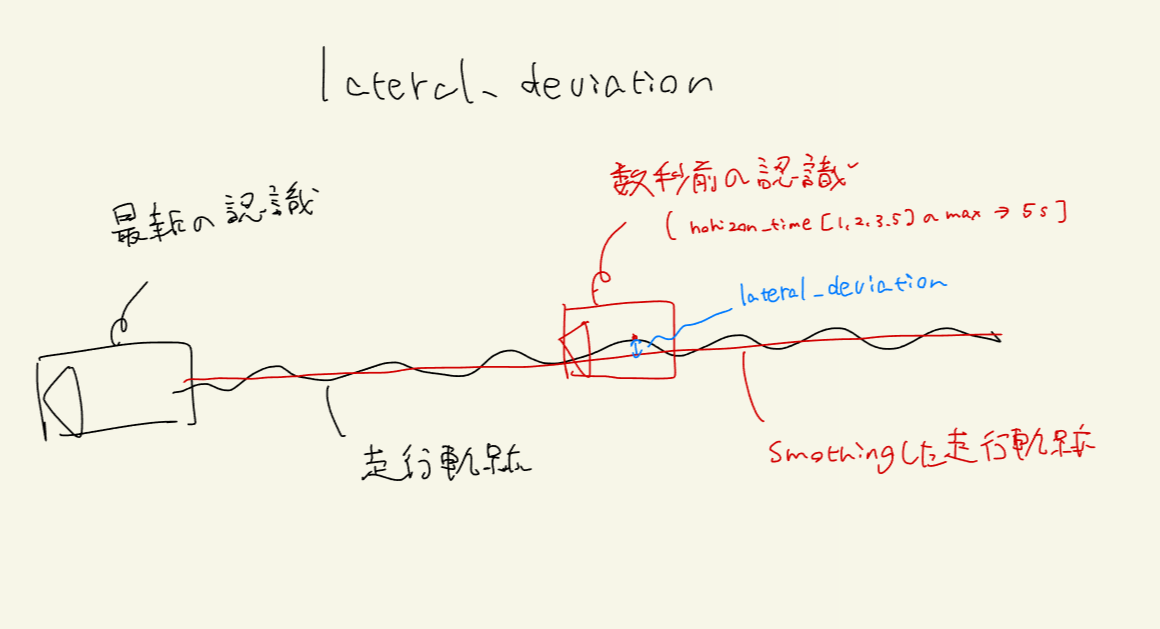
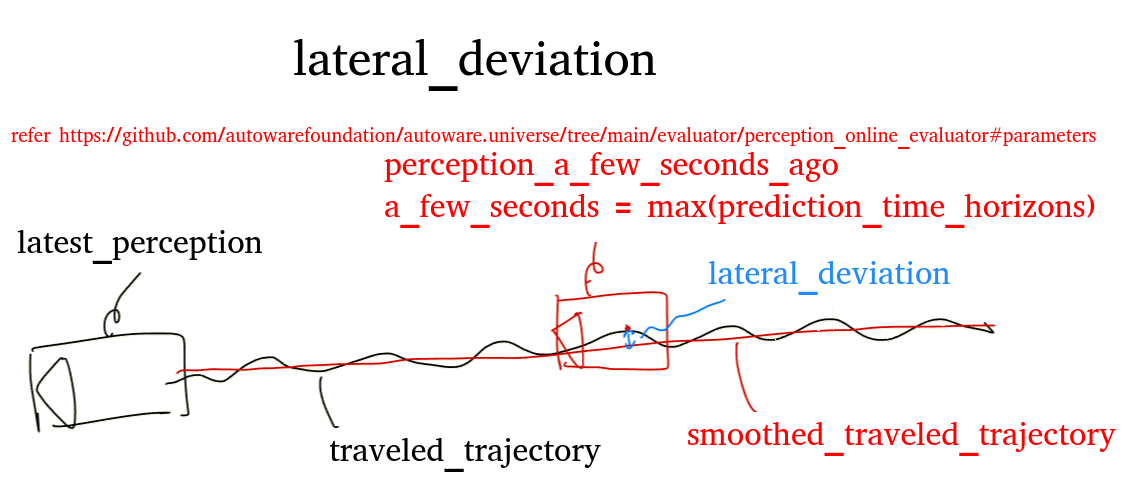
docs: add English document

diff --git a/docs/use_case/annotationless_perception.en.md b/docs/use_case/annotationless_perception.en.md
@@ -1,0 +1,274 @@
+# Evaluate Perception (Annotation Less)
+
+Evaluate Autoware's recognition features (perception) without annotations using the perception_online_evaluator.
+
+Requires Autoware with the following PR features.
+<https://github.com/autowarefoundation/autoware.universe/pull/6493>
+
+## Evaluation method
+
+The annotationless_perception evaluation is executed by launching the `annotationless_perception.launch.py` file.
+Launching the file executes the following steps:
+
+1. Execute launch of evaluation node (`annotationless_perception_evaluator_node`), `logging_simulator.launch` file and `ros2 bag play` command
+2. Autoware receives sensor data output from input rosbag and the perception module performs recognition.
+3. The perception_online_evaluator publishes diagnostic topic to `/diagnostic/perception_online_evaluator/metrics`
+4. The evaluation node subscribes to the topic and evaluates data. The result is dumped into a file.
+5. When the playback of the rosbag is finished, Autoware's launch is automatically terminated, and the evaluation is completed.
+
+## Evaluation results
+
+The results are calculated for each subscription. The format and available states are described below.
+
+### Deviation Normal
+
+The following two values specified in the scenario or launch argument are used to judge
+
+- Threshold
+  - Threshold for judging the success or failure of each item
+- PassRange(Coefficient to correct threshold)
+  - The range between `threshold * lower_limit` and `threshold * upper limit` is considered to pass the test.
+
+Add the min, max, and mean values for each status.name in `/diagnostic/perception_online_evaluator/metrics` and calculate the average value.
+If the `threshold * lower limit` <= `calculated_average` <= `threshold value * upper_limit`, it is assumed to be normal.
+
+An illustration is shown below.
+
+![metrics](./images/annotationless_metrics.drawio.svg)
+
+### Deviation Error
+
+When the deviation normal condition is not met
+
+## Topic name and data type used by evaluation node
+
+Subscribed topics:
+
+| Topic name                                      | Data type                             |
+| ----------------------------------------------- | ------------------------------------- |
+| /diagnostic/perception_online_evaluator/metrics | diagnostic_msgs::msg::DiagnosticArray |
+
+Published topics:
+
+| Topic name | Data type |
+| ---------- | --------- |
+| N/A        | N/A       |
+
+### Method of specifying conditions
+
+The conditions can be given in two ways
+
+#### Describe in scenario
+
+```yaml
+Evaluation:
+  UseCaseName: annotationless_perception
+  UseCaseFormatVersion: 0.1.0
+  Conditions:
+    # Threshold: {} # If Metrics are specified from result.jsonl of a previous test, the value here will be overwritten. If it is a dictionary type, it can be empty.
+    Threshold:
+      lateral_deviation: { min: 10.0, max: 10.0, mean: 10.0 }
+      yaw_deviation: { min: 10.0, max: 10.0, mean: 10.0 }
+      predicted_path_deviation_5.00: { min: 10.0, max: 10.0, mean: 10.0 }
+      predicted_path_deviation_3.00: { min: 10.0, max: 10.0, mean: 10.0 }
+      predicted_path_deviation_2.00: { min: 10.0, max: 10.0, mean: 10.0 }
+      predicted_path_deviation_1.00: { min: 10.0, max: 10.0, mean: 10.0 }
+    PassRange: 0.5-1.05 # lower[<=1.0]-upper[>=1.0] # The test will pass under the following `condition threshold * lower <= Σ deviation / len(deviation) <= threshold * upper`
+```
+
+#### Specify by launch argument
+
+This method is assumed to be used mainly.
+If the file path of result.jsonl output from a past test is specified, the metrics values from past tests can be used as threshold values.
+The passing range can also be specified as an argument.
+
+An image of its use is shown below.
+
+![threshold](./images/annotationless_threshold.drawio.svg)
+
+##### driving-log-replayer-cli
+
+```shell
+dlr simulation run -p annotationless_perception -l "annotationless_thresold_file:=${previous_test_result.jsonl_path},annotationless_pass_range:=${lower-upper}
+```
+
+##### WebAutoCLI
+
+```shell
+webauto ci scenario run --project-id ${project-id} --scenario-id ${scenario-id} --scenario-version-id ${scenario-version-id} --simulator-parameter-overrides annotationless_thresold_file=${previous_test_result.jsonl_path},annotaionless_pass_rate=${lower-upper}
+```
+
+##### Autoware Evaluator
+
+Add to parameters in the simulator configuration in `.webauto-ci.yml`.
+
+```yaml
+simulations:
+  - name: annotationless_perception
+    type: annotationless_perception
+    simulator:
+      deployment:
+        type: container
+        artifact: main
+      runtime:
+        type: simulator/standard1/amd64/medium
+      parameters:
+        annotationless_threshold_file: ${previous_test_result.jsonl_path}
+        annotationless_pass_range: ${upper-lower}
+```
+
+## Arguments passed to logging_simulator.launch
+
+To make Autoware processing less resource-consuming, modules that are not relevant to evaluation are disabled by passing the `false` parameter as a launch argument.
+The following parameters are set to `false`:
+
+- perception: true
+- planning: false
+- control: false
+- sensing: false / true (default false, set by launch argument)
+
+### How to specify the sensing argument
+
+#### driving-log-replayer-cli
+
+```shell
+dlr simulation run -p annotationless_perception -l "sensing:=true"
+```
+
+#### WebAutoCLI
+
+```shell
+webauto ci scenario run --project-id ${project-id} --scenario-id ${scenario-id} --scenario-version-id ${scenario-version-id} --simulator-parameter-overrides sensing=true
+```
+
+#### Autoware Evaluator
+
+Add to parameters in the simulator configuration in `.webauto-ci.yml`.
+
+```yaml
+simulations:
+  - name: annotationless_perception
+    type: annotationless_perception
+    simulator:
+      deployment:
+        type: container
+        artifact: main
+      runtime:
+        type: simulator/standard1/amd64/medium
+      parameters:
+        sensing: "true"
+```
+
+## simulation
+
+State the information required to run the simulation.
+
+### Topic to be included in the input rosbag
+
+| Topic name | Data type               |
+| ---------------------------------------------------- | -------------------------------------------- |
+| /gsm8/from_can_bus                                   | can_msgs/msg/Frame                           |
+| /localization/kinematic_state                        | nav_msgs/msg/Odometry                        |
+| /sensing/gnss/ublox/fix_velocity                     | geometry_msgs/msg/TwistWithCovarianceStamped |
+| /sensing/gnss/ublox/nav_sat_fix                      | sensor_msgs/msg/NavSatFix                    |
+| /sensing/gnss/ublox/navpvt                           | ublox_msgs/msg/NavPVT                        |
+| /sensing/imu/tamagawa/imu_raw                        | sensor_msgs/msg/Imu                          |
+| /sensing/lidar/concatenated/pointcloud               | sensor_msgs/msg/PointCloud2                  |
+| /sensing/lidar/\*/velodyne_packets                   | velodyne_msgs/VelodyneScan                   |
+| /tf                                                  | tf2_msgs/msg/TFMessage                       |
+
+The vehicle topics can be included instead of CAN.
+
+| Topic name | Data type               |
+| ---------------------------------------------------- | --------------------------------------------------- |
+| /localization/kinematic_state                        | nav_msgs/msg/Odometry                               |
+| /sensing/gnss/ublox/fix_velocity                     | geometry_msgs/msg/TwistWithCovarianceStamped        |
+| /sensing/gnss/ublox/nav_sat_fix                      | sensor_msgs/msg/NavSatFix                           |
+| /sensing/gnss/ublox/navpvt                           | ublox_msgs/msg/NavPVT                               |
+| /sensing/imu/tamagawa/imu_raw                        | sensor_msgs/msg/Imu                                 |
+| /sensing/lidar/concatenated/pointcloud               | sensor_msgs/msg/PointCloud2                         |
+| /sensing/lidar/\*/velodyne_packets                   | velodyne_msgs/VelodyneScan                          |
+| /tf                                                  | tf2_msgs/msg/TFMessage                              |
+| /vehicle/status/control_mode                         | autoware_auto_vehicle_msgs/msg/ControlModeReport    |
+| /vehicle/status/gear_status                          | autoware_auto_vehicle_msgs/msg/GearReport           |
+| /vehicle/status/steering_status                      | autoware_auto_vehicle_msgs/SteeringReport           |
+| /vehicle/status/turn_indicators_status               | autoware_auto_vehicle_msgs/msg/TurnIndicatorsReport |
+| /vehicle/status/velocity_status                      | autoware_auto_vehicle_msgs/msg/VelocityReport       |
+
+### Topics that must not be included in the input rosbag
+
+| Topic name | Data type               |
+| -------- | ----------------------- |
+| /clock   | rosgraph_msgs/msg/Clock |
+
+The clock is output by the --clock option of ros2 bag play, so if it is recorded in the bag itself, it is output twice, so it is not included in the bag.
+
+## evaluation
+
+State the information necessary for the evaluation.
+
+### Scenario Format
+
+See [sample](https://github.com/tier4/driving_log_replayer/blob/main/sample/annotationless_perception/scenario.yaml)
+
+### Evaluation Result Format
+
+See [sample](https://github.com/tier4/driving_log_replayer/blob/main/sample/annotationless_perception/result.json)
+
+The format of each frame and the metrics format are shown below.
+**NOTE: common part of the result file format, which has already been explained, is omitted.**
+
+
+```json
+{
+  "Deviation": {
+    "Result": { "Total": "Success or Fail", "Frame": "Success or Fail" }, // The results for Total and Frame are the same. The same values are output to make the data structure the same as other evaluations.
+    "Info": {
+      "lateral_deviation": { "min": "Minimum distance", "max": "Maximum distance", "mean": "Mean distance" },
+      "yaw_deviation": { "min": "Minimum Angle Difference", "max": "Maximum Angle Difference", "mean": "Mean Angle Difference" },
+      "predicted_path_deviation_5.00": { "min": "Minimum distance", "max": "Maximum distance", "mean": "Mean distance" },
+      "predicted_path_deviation_3.00": { "min": "Minimum distance", "max": "Maximum distance", "mean": "Mean distance" },
+      "predicted_path_deviation_2.00": { "min": "Minimum distance", "max": "Maximum distance", "mean": "Mean distance" },
+      "predicted_path_deviation_1.00": { "min": "Minimum distance", "max": "Maximum distance", "mean": "Mean distance" }
+    },
+    "Metrics": {
+      "lateral_deviation": {
+        "min": "Average Minimum distance",
+        "max": "Average Maximum distance",
+        "mean": "Average Mean distance"
+      },
+      "yaw_deviation": {
+        "min": "Average Minimum Angle Difference",
+        "max": "Average Maximum Angle Difference",
+        "mean": "Average Mean Angle Difference"
+      },
+      "predicted_path_deviation_5.00": {
+        "min": "Average Minimum distance",
+        "max": "Average Maximum distance",
+        "mean": "Average Mean distance"
+      },
+      "predicted_path_deviation_3.00": {
+        "min": "Average Minimum distance",
+        "max": "Average Maximum distance",
+        "mean": "Average Mean distance"
+      },
+      "predicted_path_deviation_2.00": {
+        "min": "Average Minimum distance",
+        "max": "Average Maximum distance",
+        "mean": "Average Mean distance"
+      },
+      "predicted_path_deviation_1.00": {
+        "min": "Average Minimum distance",
+        "max": "Average Maximum distance",
+        "mean": "Average Mean distance"
+      }
+    }
+  }
+}
+```
+
+See the figure below for the meaning of items
+
+![lateral_deviation](./images/lateral_deviation.png)
+
+![predicted_path_deviation](./images/predicted_path_deviation.png)
